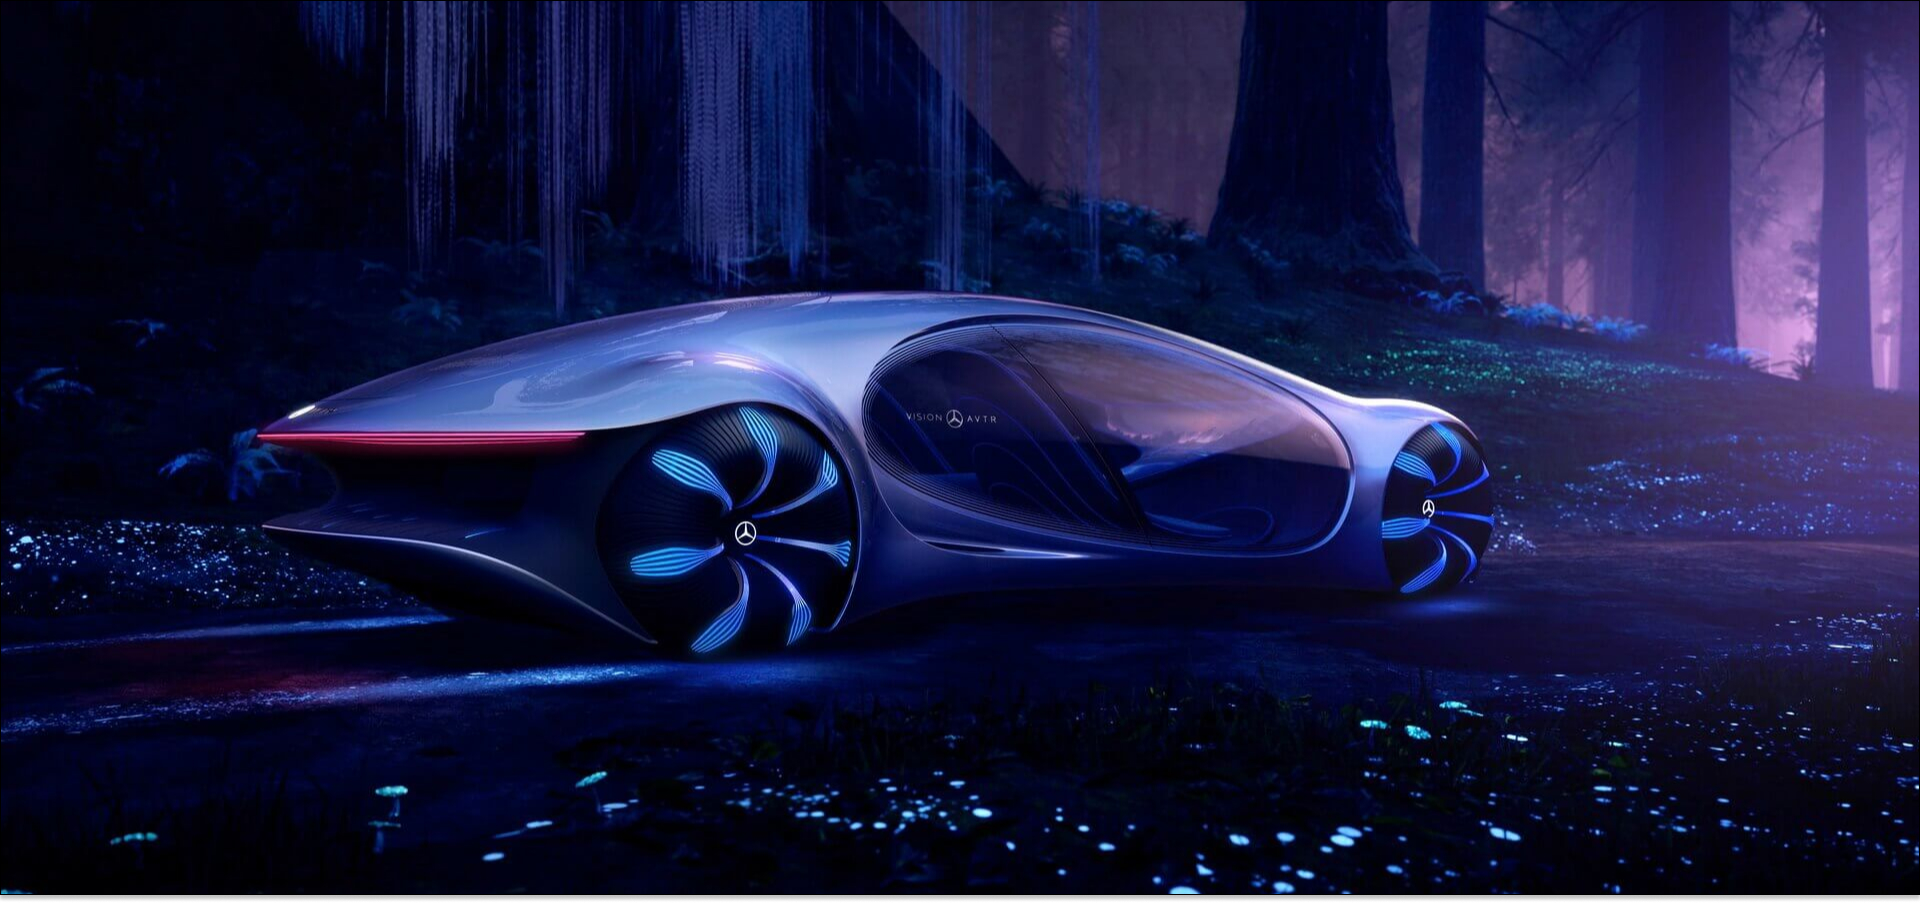
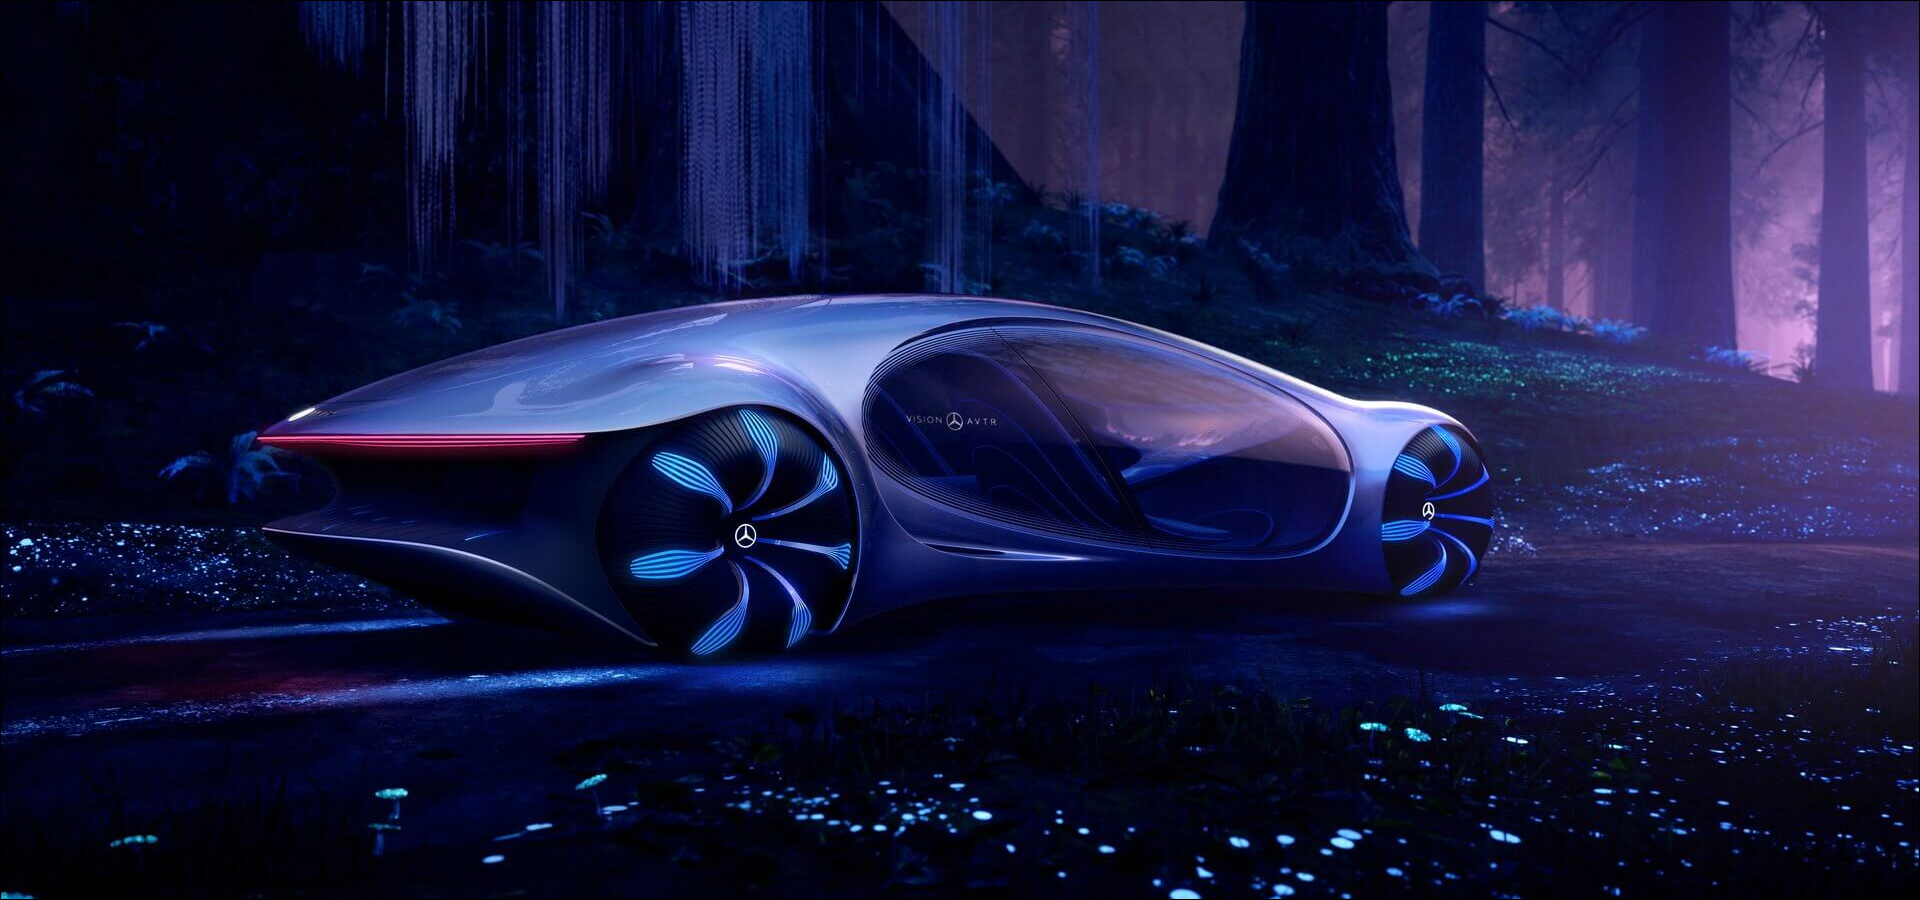
осталось сделать кнопку play

diff --git a/src/scss/home.scss b/src/scss/home.scss
@@ -4,10 +4,10 @@
 .vision {
 	position: relative;
 	margin: 0 auto;
-	// .proba__container
+	// .vision__container
 	&__container {
 	}
-	// .proba__body
+	// .vision__body
 	&__body {
 		padding-top: rem(631);
 		position: relative;
@@ -15,7 +15,7 @@
 		text-align: center;
 		bottom: rem(-25);
 	}
-	// .proba__title
+	// .vision__title
 	&__title {
 		font-family: "Corporate A";
 		font-weight: 700;
@@ -24,27 +24,30 @@
 		text-shadow: 0px 4px 4px rgba(0, 0, 0, 0.25);
 		@include adaptiveValue("margin-bottom", 5, 15);
 	}
-	// .proba__subtitle
+	// .vision__subtitle
 	&__subtitle {
 		font-weight: 400;
 		@include adaptiveValue("font-size", 24, 22);
 		line-height: 120%;
 		margin-bottom: rem(24);
 	}
-	// .proba__logo
+	// .vision__logo
 	&__logo {
 		img {
 			width: rem(50);
 			height: rem(50);
 		}
 	}
-	// .proba__image-ibg
+	// .vision__image-ibg
 	&__image-ibg {
 		position: absolute;
 		width: 100%;
 		height: 100%;
 		top: 0;
 		left: 0;
+		background-repeat: no-repeat;
+		background-position: center;
+		background: cover;
 		img {
 			border-top-right-radius: rem(400);
 			border-top-left-radius: rem(400);
@@ -133,7 +136,8 @@
 			// cursor: pointer; //????????????
 		}
 		@media (max-width: $tablet) {
-			margin-bottom: rem(25);
+			margin-bottom: rem(60);
+
 		}
 	}
 	// .premier__desc
@@ -154,9 +158,6 @@
 		}
 		&_1 {
 			img {
-				@media (max-width: $tablet) {
-					margin-bottom: rem(30);
-				}
 			}
 		}
 		&_2 {
@@ -379,7 +380,7 @@
 		left: 50%;
 		top: -5%;
 		transform: translate(-50%, 5%);
-		display: flex;	
+		display: flex;
 		justify-content: space-between;
 		z-index: 50;
 	}
@@ -389,7 +390,7 @@
 .control-image-slider {
 	position: relative;
 	z-index: 50;
-	display: flex;	
+	display: flex;
 	justify-content: space-between;
 	// .control-image-slider__arrow
 	&__arrow {
@@ -401,11 +402,11 @@
 	}
 	// .control-image-slider__arrow-next
 	&__arrow-next {
-		background: url('@img/slider/arrow-1.png') 0 0 no-repeat;
+		background: url("@img/slider/arrow-1.png") 0 0 no-repeat;
 	}
 	// .control-image-slider__arrow--prev
 	&__arrow-prev {
-		background: url('@img/slider/arrow-2.png') 0 0 no-repeat;
+		background: url("@img/slider/arrow-2.png") 0 0 no-repeat;
 	}
 }
 
@@ -457,6 +458,23 @@
 			border: 1px solid #000000;
 			filter: drop-shadow(0px 4px 4px rgba(0, 0, 0, 0.25));
 			border-radius: 450px 450px 0px 0px;
+		}
+	}
+	// .vision__image-ibg
+	&__image-ibg {
+		// min-height: rem(900);
+		padding-bottom: 46.88%;
+		// position: absolute;
+		// width: 100%;
+		// height: 100%;
+		// top: 0;
+		// left: 0;
+		// background-repeat: no-repeat;
+		// background-position: center;
+		// background-size: contain;
+		img {
+			border-top-right-radius: rem(450);
+			border-top-left-radius: rem(450);
 		}
 	}
 }

diff --git a/src/scss/style.scss b/src/scss/style.scss
@@ -95,6 +95,15 @@ body {
 	}
 }
 
+// Подключение шрифта как способ при простой верстке  ==========================================
+@font-face {
+	// font-family: 'Corporate A Bold';
+	// font-stily: normal;
+	// font-weight: 700;
+	// src: url('../scss/fonts/Corporate-A-Bold.woff2') format('woff2'),
+	// 	 url('../scss/fonts/Corporate-A-Bold.woff') format('woff'),
+}
+
 // Ограничивающий контейнер ======================================================================================================================================================================================================================
 
 /*

diff --git a/src/home.html b/src/home.html
@@ -216,7 +216,11 @@
 			</section>
 
 			<section class="page__forest forest">
-				<div class="forest__image">
+				<!-- <div class="forest__image">
+					<img src="@img/forest/car-forest.jpg" alt="car-forest">
+				</div> -->
+
+				<div class="forest__image-ibg">
 					<img src="@img/forest/car-forest.jpg" alt="car-forest">
 				</div>
 			</section>

diff --git a/src/scss/header.scss b/src/scss/header.scss
@@ -150,6 +150,10 @@
 		cursor: pointer;
 		width: rem(40);
 		height: rem(40);
+		display: flex;
+		justify-content: center;
+		align-items: center;
+		border-radius: 50%;
 		transition: all 0.5s ease;
 	}
 	// .list__img

diff --git a/src/html/_header.htm b/src/html/_header.htm
@@ -40,3 +40,4 @@
 		</div>
 	</div>
 </header>
+
